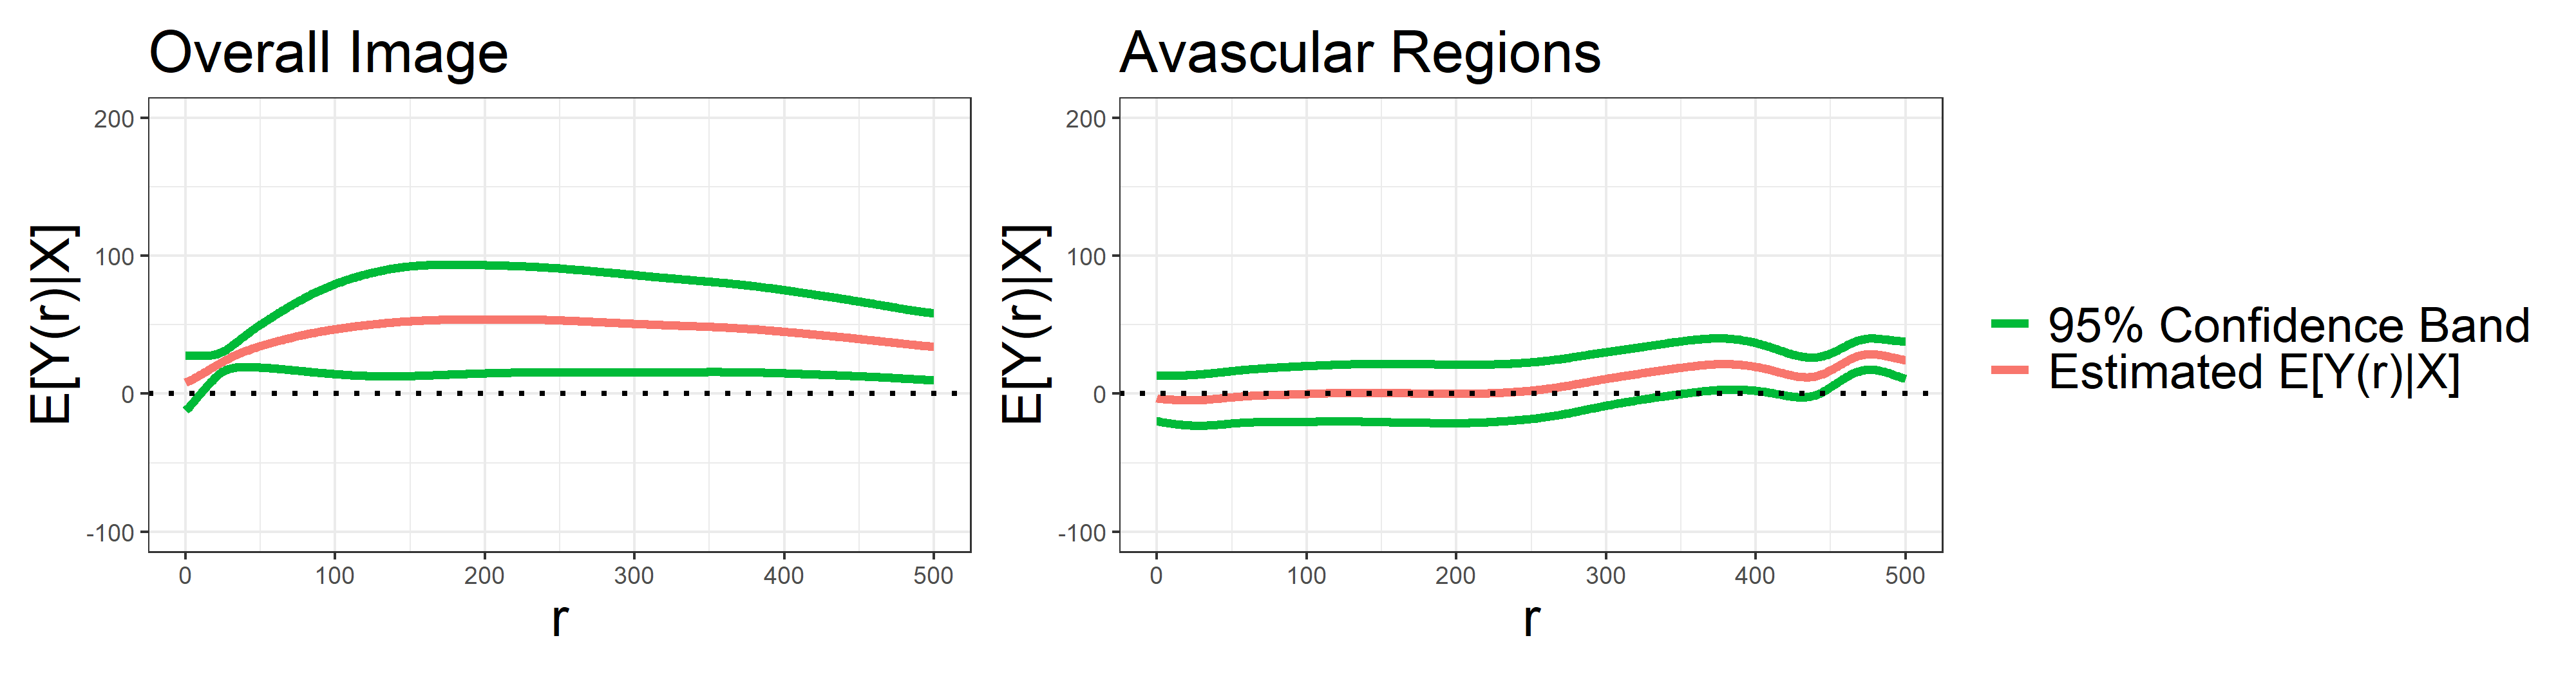
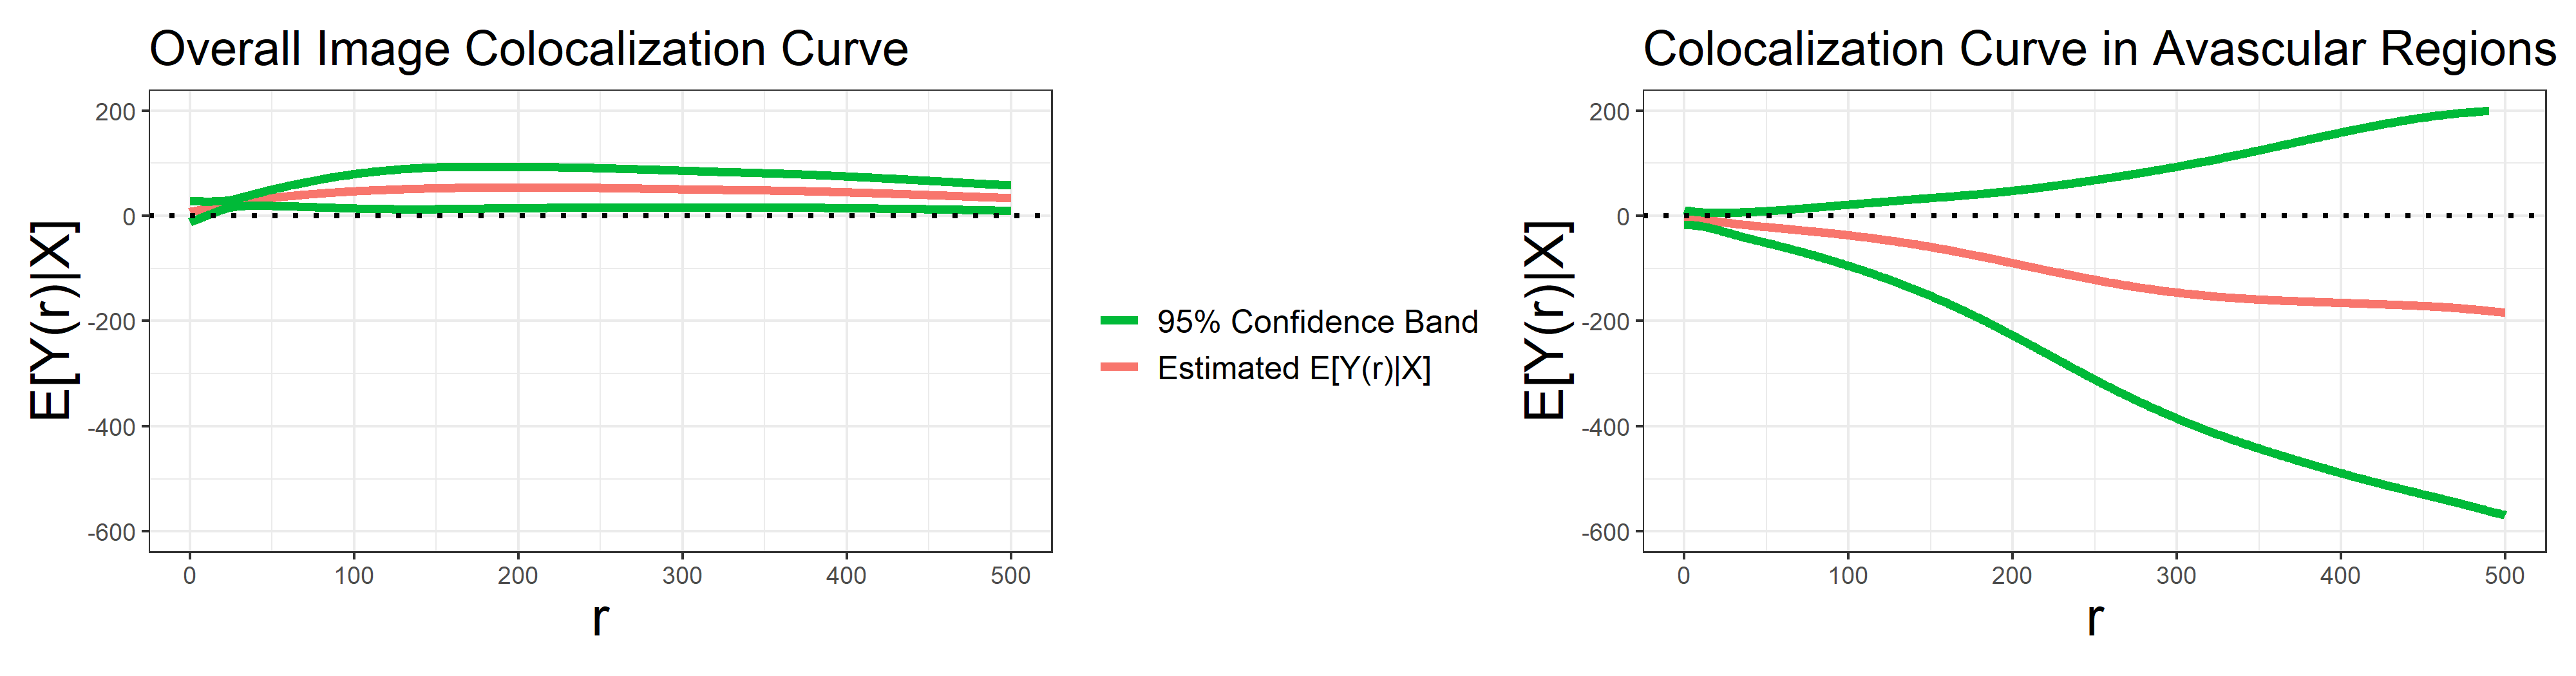
updated readme

diff --git a/README.md b/README.md
@@ -12,7 +12,6 @@ library(spatstat.geom)
 library(spatstat.explore)
 library(refund)
 library(mgcv)
-
 ```
 
 It is recommended to load only `spatstat.geom` and `spatstat.explore` instead of loading `spatstat` all together, as other packages in the `spatstat` family may interfere with `refund::pffr().`
@@ -24,7 +23,7 @@ devtools::install_github('carlyemiddleton/funboot')
 library(funboot)
 ```
 
-## Example Data
+## Required Format for Input Data
 
 The package requires single-cell input data in the form of an R `data.frame` containing variables named exactly as: `patient_id`, `image_number`, `cell_id`, `cell_x`, `cell_y`, `cell_type`, and any covariates.  Two example datasets following this format are included in the package:  
 
@@ -35,7 +34,7 @@ data("melanoma_data", package="funboot")
 
 ## Vignette
 
-This package contains a vignette, which can be built during the install:
+The package contains a vignette, which can be built during the install:
 
 ```
 devtools::install_github('carlyemiddleton/funboot', build_vignettes = TRUE, force=TRUE)